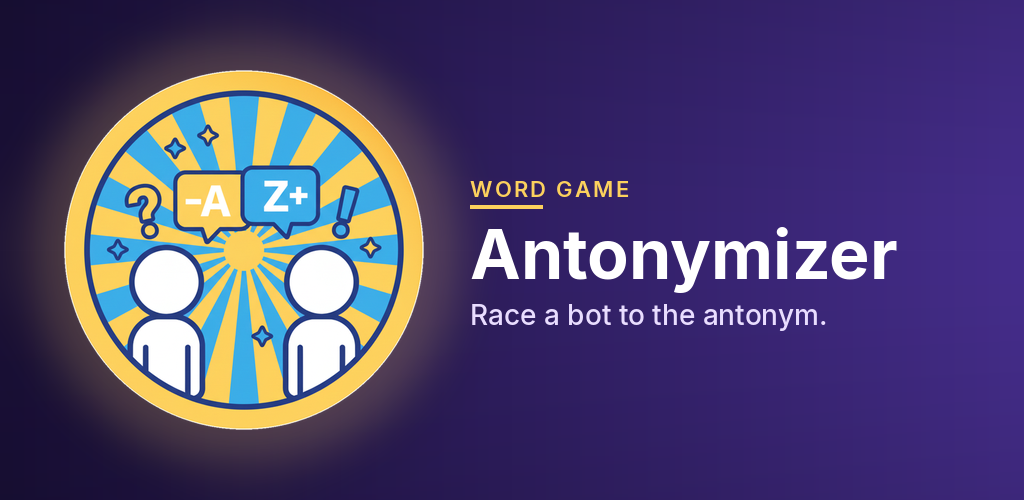
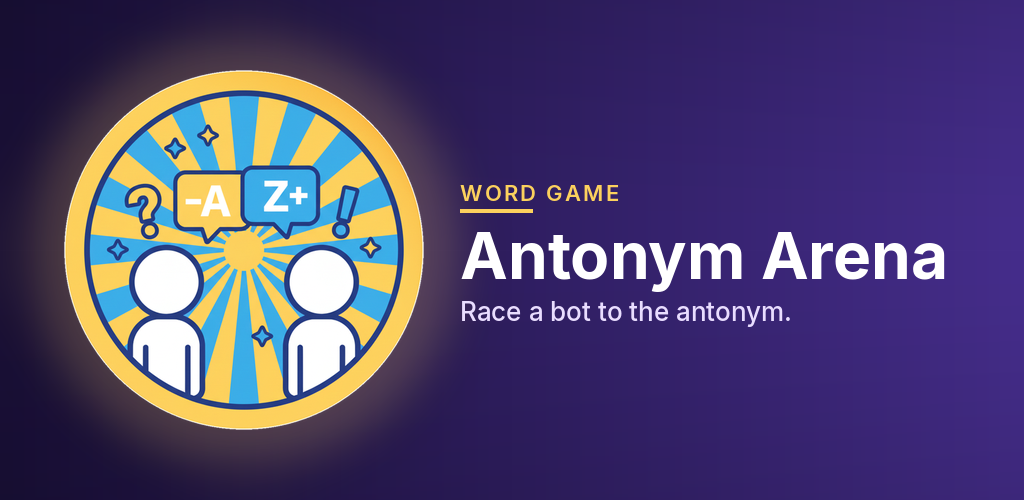
Use Antonym Arena as the Play and launcher name
Mark chose Antonym Arena for the store listing and the Android home-screen label. The package, version, and signing stay the same.

Changed region(s): [[0.4375, 0.36, 0.9375, 0.66]]

diff --git a/store/android/play-console-answers.md b/store/android/play-console-answers.md
@@ -1,4 +1,4 @@
-# Play Console answers — Antonymizer
+# Play Console answers — Antonym Arena
 
 Android package `com.markduenas.antonymizer`. Version **1.0** (`versionName`) / **versionCode 2**, from `version.properties`. This file does not change those values.
 
@@ -28,7 +28,7 @@ Store listing text: `en-US/`. Remove Ads product: `remove-ads-product.md`.
 18. Remove Ads country availability. Leave the EEA, the UK, and Switzerland out until DUE-84 ships. See Countries below.
 19. Whether the Play product description should add that rewarded ads can still play. The in-app card does not say that.
 20. App access vs billing tests. The game needs no login. A normal Play install can buy Remove Ads with a real payment method. License testers can sideload, including a debug build, and use test payment methods. See App access.
-21. Store name. The Play listing here is **Antonymizer** (launcher label, versionName 1.0). The home screen title is **ANTONYM ARENA**, and Settings → About says **Antonym Arena**, version **1.0.0**. Which name should the store and the app use?
+21. RESOLVED. Display name is **Antonym Arena** on the Play listing and on the Android launcher. Package stays `com.markduenas.antonymizer`. versionName stays 1.0, versionCode stays 2.
 
 ## App access
 
@@ -252,17 +252,18 @@ A defensible form answer is: **Yes** for data you count as collected by the deve
 
 ## Store name
 
-NEEDS MARK (item 21). This folder does not change the listing name, the app, or the version.
+Item 21 is decided. Mark chose **Antonym Arena** (2026-11-15).
 
-| Surface | What it says today |
+| Surface | Name |
 | --- | --- |
-| Play app name in `en-US/title.txt` | Antonymizer |
-| Launcher label (`strings.xml` `app_name`) | Antonymizer |
-| `version.properties` | versionName 1.0, versionCode 2 |
+| Play app name in `en-US/title.txt` | Antonym Arena |
+| Android launcher label (`strings.xml` `app_name`, used by `android:label`) | Antonym Arena |
 | Home screen title | ANTONYM ARENA |
 | Settings → About | Antonym Arena, hardcoded "Version 1.0.0" |
+| Package / applicationId | `com.markduenas.antonymizer` (unchanged) |
+| `version.properties` | versionName 1.0, versionCode 2 (unchanged) |
 
-Mark: which name should be on the Play store, and should the in-app title and the About version string be aligned with it later? Until that is decided, paste **Antonymizer** as the store name. It matches the name on the device.
+Paste **Antonym Arena** as the store name. It matches the name under the Android icon. The About version string is still "Version 1.0.0" while `versionName` is 1.0. That version text was not changed.
 
 ## Countries
 

diff --git a/store/android/README.md b/store/android/README.md
@@ -1,12 +1,12 @@
 # Android Play listing assets
 
-There was no `store/` directory and no fastlane metadata in the repo. This folder is the Play Console source for the first Android release. It does not change the app, the version (`1.0` / versionCode `2`), or signing.
+There was no `store/` directory and no fastlane metadata in the repo. This folder is the Play Console source for the first Android release. The Android launcher label is **Antonym Arena**. The package stays `com.markduenas.antonymizer`. Version (`1.0` / versionCode `2`) and signing are unchanged.
 
 | Path | What it is |
 | --- | --- |
-| `en-US/title.txt` | App name, 11 characters (limit 30) |
-| `en-US/short_description.txt` | Short description, 74 characters (limit 80) |
-| `en-US/full_description.txt` | Full description, 1686 characters (limit 4000) |
+| `en-US/title.txt` | App name Antonym Arena, 13 characters (limit 30) |
+| `en-US/short_description.txt` | Short description, 71 characters (limit 80) |
+| `en-US/full_description.txt` | Full description, 1688 characters (limit 4000) |
 | `en-US/listing-fields.md` | Category, tags, and contact fields |
 | `phone/` | Six phone screenshots, 1080×1920, 24-bit PNG |
 | `graphics/icon-512.png` | 512×512 store icon |
@@ -54,4 +54,4 @@ Checked-in Roborazzi baselines under `screenshots/screenshots/` are 1078×2399, 
 
 `graphics/icon-512.png` is the existing launcher artwork. The xxxhdpi launcher PNG is 192×192 of the same image. The 512 was scaled down from the 1024 master (`antonyms_icon.png`, same file as the iOS app icon) so it is not an upscale of the 192. Corners outside the gold ring are transparent.
 
-`graphics/feature-graphic-1024x500.png` places that icon on a purple field taken from the app theme (`#1A1038` to `#462E8C`), with the name and the line "Race a bot to the antonym." It is RGB, with no alpha. The opponent is the scripted bot in `BotBehavior`, not a learned model, so the graphic does not say "AI".
+`graphics/feature-graphic-1024x500.png` places that icon on a purple field taken from the app theme (`#1A1038` to `#462E8C`), with the name **Antonym Arena** and the line "Race a bot to the antonym." It is RGB, with no alpha. The opponent is the scripted bot in `BotBehavior`, not a learned model, so the graphic does not say "AI".

diff --git a/store/android/en-US/listing-fields.md b/store/android/en-US/listing-fields.md
@@ -4,11 +4,11 @@ Paste-ready text is in the sibling `.txt` files. Limits were counted on the text
 
 | Field | File | Length | Limit |
 | --- | --- | --- | --- |
-| App name | `title.txt` | 11 | 30 |
-| Short description | `short_description.txt` | 74 | 80 |
-| Full description | `full_description.txt` | 1686 | 4000 |
+| App name | `title.txt` | 13 | 30 |
+| Short description | `short_description.txt` | 71 | 80 |
+| Full description | `full_description.txt` | 1688 | 4000 |
 
-The Play name in `title.txt` stays **Antonymizer**, which is the launcher label. The home screen says "ANTONYM ARENA" and Settings → About says "Antonym Arena" / "Version 1.0.0". NEEDS MARK (item 21 in `play-console-answers.md`): which name the store and the app should use. Do not change `title.txt` until Mark decides.
+The Play name in `title.txt` is **Antonym Arena** (13 characters). That is also the Android launcher label. The package stays `com.markduenas.antonymizer`. Item 21 in `play-console-answers.md` is resolved.
 
 ## Category
 
